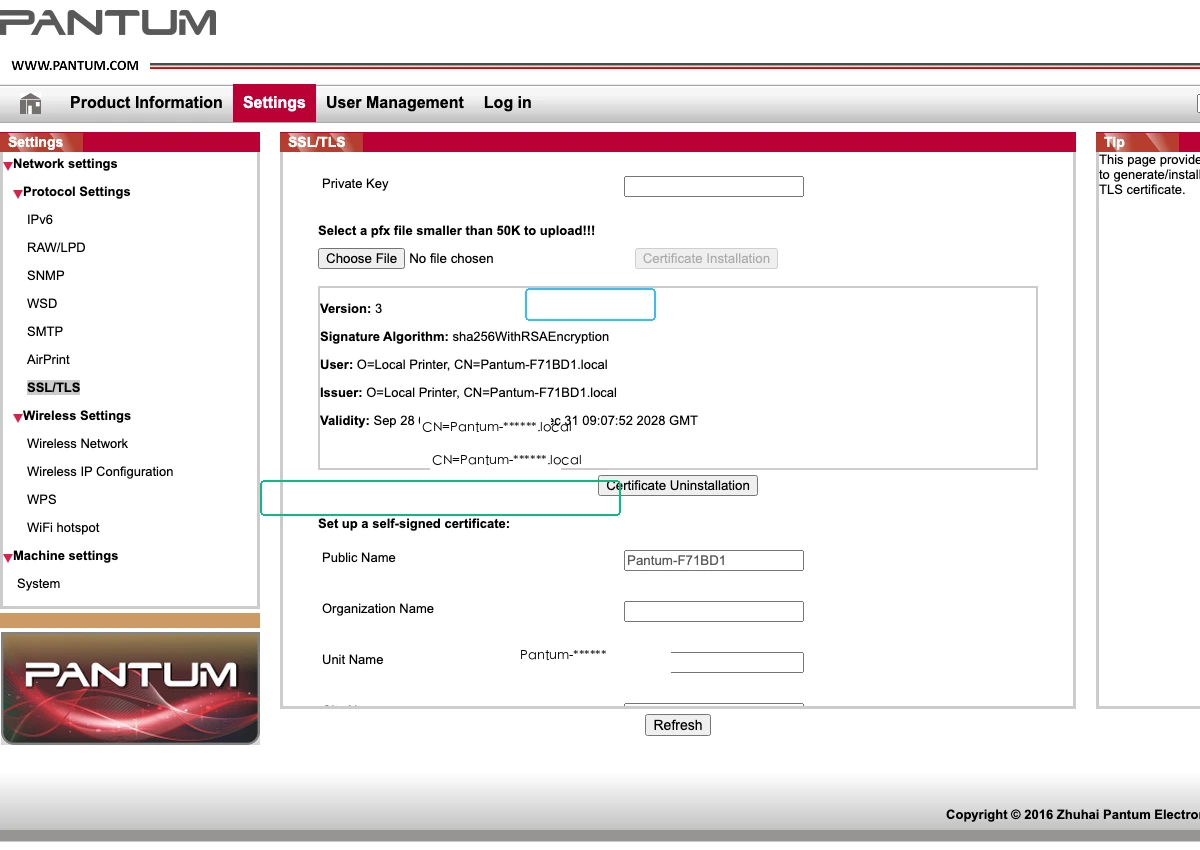
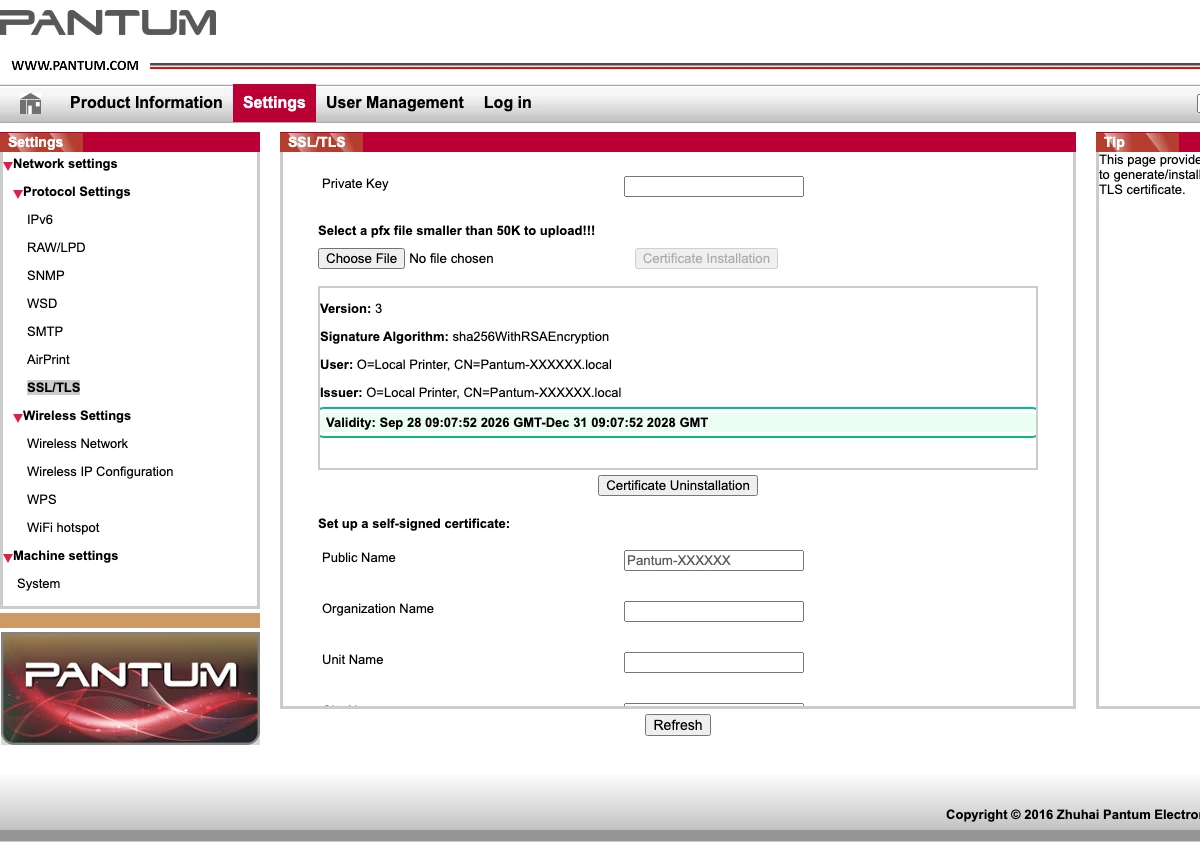
Deploy Hugo site (2026-09-28T21:08:02Z)

Changed region(s): [[0.2158, 0.3365, 0.8633, 0.6118], [0.555, 0.6424, 0.6167, 0.6729], [0.4317, 0.7647, 0.4933, 0.7953]]

diff --git a/en/post/pantum-p2206w-ios-27-airprint-tls-certificate-fix/index.html b/en/post/pantum-p2206w-ios-27-airprint-tls-certificate-fix/index.html
@@ -266,9 +266,9 @@
 <h2>2. Preliminary Diagnostic Triad: Network, Hardware, and Discovery Probes</h2>
 <p>Before jumping into cryptographic modifications, systematic engineering discipline demands a step-by-step diagnostic triage. In a modern local area network, three gates must open for a wireless printer to serve a mobile client: <strong>Network Layer Connectivity, Discovery Layer Broadcast, and Transport Layer Negotiation</strong>.</p>
 <h3>Step 1: Network Layer &amp; Router Isolation Check</h3>
-<p>From a workstation terminal, we execute a ping test against the printer's local IP address: <code>ping 192.168.*.*</code>. Round-trip times remain rock-steady between 2 ms and 12 ms with 0% packet loss. Logging into the main router's management dashboard confirms that both the iPhone and the Pantum printer reside on the identical dual-band 2.4GHz/5GHz subnet, with AP Client Isolation (Guest Isolation) strictly disabled.</p>
+<p>From a workstation terminal, we execute a ping test against the printer's local IP address: <code>ping 192.168.X.X</code>. Round-trip times remain rock-steady between 2 ms and 12 ms with 0% packet loss. Logging into the main router's management dashboard confirms that both the iPhone and the Pantum printer reside on the identical dual-band 2.4GHz/5GHz subnet, with AP Client Isolation (Guest Isolation) strictly disabled.</p>
 <h3>Step 2: Hardware &amp; Consumables Inspection via Embedded Web Server (EWS)</h3>
-<p>Navigating to <code>http://192.168.*.*</code> in a desktop web browser brings up the Pantum P2206W Embedded Web Server without hesitation.</p>
+<p>Navigating to <code>http://192.168.X.X</code> in a desktop web browser brings up the Pantum P2206W Embedded Web Server without hesitation.</p>
 <p><img alt="Authentic Screenshot: Pantum P2206W EWS Product Information Dashboard (Firmware &amp; Consumables Healthy)" src="/post-images/pantum-p2206w-ios-27-airprint-tls-certificate-fix/04-shot-pantum-web-product-info.webp"></p>
 <p>The Product Information screen confirms peak hardware health:</p>
 <ul>
@@ -299,7 +299,7 @@ Pantum-P2206W._ipp._tcp.local. can be reached at Pantum-XXXXXX.local.:631
 <p>Because mDNS discovery succeeds, the fault must occur at the exact millisecond when the client attempts to establish a connection based on those discovery parameters.</p>
 <p>Under the AirPrint specification, once an iOS device resolves the printer's IP and port, it initiates an <strong>Internet Printing Protocol (IPP)</strong> attribute exchange. Whenever the printer advertises TLS capability, modern Apple platforms automatically mandate an encrypted <strong>IPPS (IPP over TLS)</strong> handshake.</p>
 <p>We deploy OpenSSL to execute a direct probe against the printer's secure port:</p>
-<pre><code class="language-bash">$ openssl s_client -connect 192.168.*.*:443 -showcerts &lt;/dev/null 2&gt;/dev/null | openssl x509 -text -noout
+<pre><code class="language-bash">$ openssl s_client -connect 192.168.X.X:443 -showcerts &lt;/dev/null 2&gt;/dev/null | openssl x509 -text -noout
 </code></pre>
 <p><img alt="Authentic Screenshot: OpenSSL Forensic Probe Revealing the 10-Year Factory Certificate" src="/post-images/pantum-p2206w-ios-27-airprint-tls-certificate-fix/05-shot-openssl-probe-10year-factory-cert.webp"></p>
 <p>The raw X.509 certificate dump reveals the root cause instantly:</p>
@@ -412,7 +412,7 @@ subjectAltName = @alt_names
 [alt_names]
 DNS.1 = Pantum-XXXXXX.local
 DNS.2 = printer.local
-IP.1 = 192.168.*.*
+IP.1 = 192.168.X.X
 EOF
 
 # 2. Generate a 2048-bit RSA private key and self-signed cert valid for exactly 825 days
@@ -431,7 +431,7 @@ openssl pkcs12 -export -out pantum_p2206w_825d.pfx \
 <p>The resulting <code>pantum_p2206w_825d.pfx</code> file measures approximately 2.8KB, easily sitting well within the 50KB boundary.</p>
 <h3>Step 3: Upload Certificate to the Pantum Web Portal</h3>
 <ol>
-<li>Open your web browser and navigate to <code>http://192.168.*.*</code> (default credentials are typically <code>admin</code> / <code>000000</code> or <code>admin</code>);</li>
+<li>Open your web browser and navigate to <code>http://192.168.X.X</code> (default credentials are typically <code>admin</code> / <code>000000</code> or <code>admin</code>);</li>
 <li>In the navigation sidebar, click <strong>'Settings ➔ Protocol Settings ➔ SSL/TLS'</strong>;</li>
 <li>Under the <strong>'Private Key'</strong> field, enter the password assigned during packaging (e.g., <code>123456</code>);</li>
 <li>Click <strong>'Choose File'</strong> and select <code>pantum_p2206w_825d.pfx</code>;</li>
@@ -464,7 +464,7 @@ param(
 )
 
 $ErrorActionPreference = "Stop"
-Write-Host "[*] Launching Pantum P2206W iOS 27 AirPrint Certificate Toolkit (Windows 11)..." -ForegroundColor Cyan
+Write-Host "[•] Launching Pantum P2206W iOS 27 AirPrint Certificate Toolkit (Windows 11)..." -ForegroundColor Cyan
 
 # Locate OpenSSL
 $OpenSsl = Get-Command "openssl" -ErrorAction SilentlyContinue
@@ -482,7 +482,7 @@ $CrtFile = Join-Path $BuildDir "pantum_p2206w.crt"
 $PfxFile = Join-Path $BuildDir "pantum_p2206w_825d.pfx"
 
 # Generate Compliant Certificate
-Write-Host "[*] Generating $ValidityDays-day RSA-2048 self-signed certificate with SAN..." -ForegroundColor Cyan
+Write-Host "[•] Generating $ValidityDays-day RSA-2048 self-signed certificate with SAN..." -ForegroundColor Cyan
 &amp; $OpenSslPath req -x509 -nodes -newkey rsa:2048 -days $ValidityDays `
     -keyout $KeyFile -out $CrtFile `
     -subj "/C=CN/O=Local Printer/CN=printer.local" `
@@ -494,7 +494,7 @@ Write-Host "[+] Packaging complete: $PfxFile ($((Get-Item $PfxFile).Length) byte
 
 # Automated Injection into EWS
 if ($PrinterHost -ne "") {
-    Write-Host "[*] Uploading to printer at http://$PrinterHost/docertificate ..." -ForegroundColor Cyan
+    Write-Host "[•] Uploading to printer at http://$PrinterHost/docertificate ..." -ForegroundColor Cyan
     $Uri = "http://$PrinterHost/docertificate"
     $Boundary = [System.Guid]::NewGuid().ToString()
     $LF = "`r`n"
@@ -526,7 +526,7 @@ PRINTER_HOST="${1:-192.168.1.xxx}"
 VALIDITY_DAYS="${2:-825}"
 PASSWORD="${3:-123456}"
 
-echo "[*] Building 825-day compliant TLS certificate for Pantum P2206W (Ubuntu 26.04)..."
+echo "[•] Building 825-day compliant TLS certificate for Pantum P2206W (Ubuntu 26.04)..."
 BUILD_DIR="./build"
 mkdir -p "$BUILD_DIR"
 
@@ -549,7 +549,7 @@ echo "[+] PKCS#12 bundle created: $PFX_FILE ($(wc -c &lt; "$PFX_FILE") bytes)"
 
 # 3. Inject directly via HTTP multipart POST
 if [[ -n "$PRINTER_HOST" ]]; then
-    echo "[*] Deploying payload to printer EWS endpoint..."
+    echo "[•] Deploying payload to printer EWS endpoint..."
     HTTP_CODE=$(curl -s -o /dev/null -w "%{http_code}" -X POST "http://${PRINTER_HOST}/docertificate" \
         -F "sslcertkey=${PASSWORD}" \
         -F "input_file_upload=@${PFX_FILE};type=application/x-pkcs12" || echo "000")
@@ -568,7 +568,7 @@ PRINTER_HOST="${1:-192.168.1.xxx}"
 VALIDITY_DAYS="${2:-825}"
 PASSWORD="${3:-123456}"
 
-print -P "%F{cyan}[*] Launching macOS 26 native Pantum AirPrint recovery tool...%f"
+print -P "%F{cyan}[•] Launching macOS 26 native Pantum AirPrint recovery tool...%f"
 
 BUILD_DIR="./build"
 mkdir -p "$BUILD_DIR"
@@ -655,11 +655,11 @@ fi
 <ul>
 <li><strong>Complete Toolkit Archive</strong>: <a href="/downloads/pantum-p2206w-ios-27-airprint-tls-certificate-fix/pantum-toolkit.zip">pantum-toolkit.zip</a></li>
 <li><strong>SHA-256 Checksums</strong>:
-<pre><code class="language-text">e464b47e780557d884a03ee8b9c9e1b19d5dfca43fe4858585b9b7b9b628eff5  pantum-toolkit.zip
+<pre><code class="language-text">2bd210a9e05a8ae6736abde9726263fc37b556443f6d9b4a9ed8c9da87c7aab2  pantum-toolkit.zip
 5e8c08c5f93a4310047886149807f144b35ef75164eea063ab255b88d3c10a95  pantum_core_agent.py
-5f1dd4578e54b8bafb2ced1ae1913c3f5e62c3077aa2220800e1ddfec25f67cd  pantum_toolkit_windows11.ps1
-7b8d43a14d06777c6935bceeade9750135f510e02f0cae0f021d53f1ac702848  pantum_toolkit_ubuntu2604.sh
-a1e48903f9b665e21a7e77b159842fdb87004d266283c58c9beb3364b5c04c68  pantum_toolkit_macos26.zsh
+b5c66f6b788b9f16b635be27814aa29d09faa946f1785723d633cf93097c547b  pantum_toolkit_windows11.ps1
+e1a1776b338988fe6a534c7df3122d8775f845e72ab32a9cfb9be4f4a4d7ade0  pantum_toolkit_ubuntu2604.sh
+f5ff3c8f9aef481c144edf9d56edd6d67feb656fb78fd6258cac503c7d7aa35e  pantum_toolkit_macos26.zsh
 </code></pre>
 </li>
 </ul>
